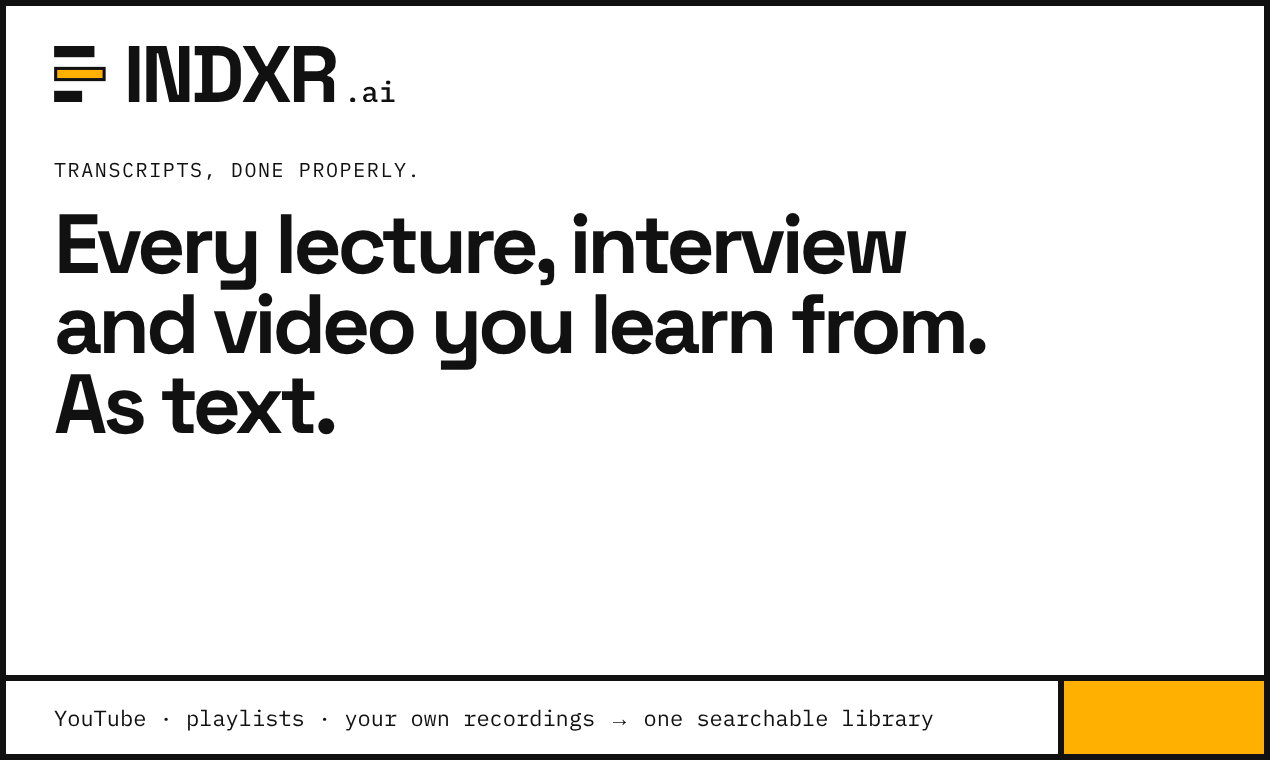
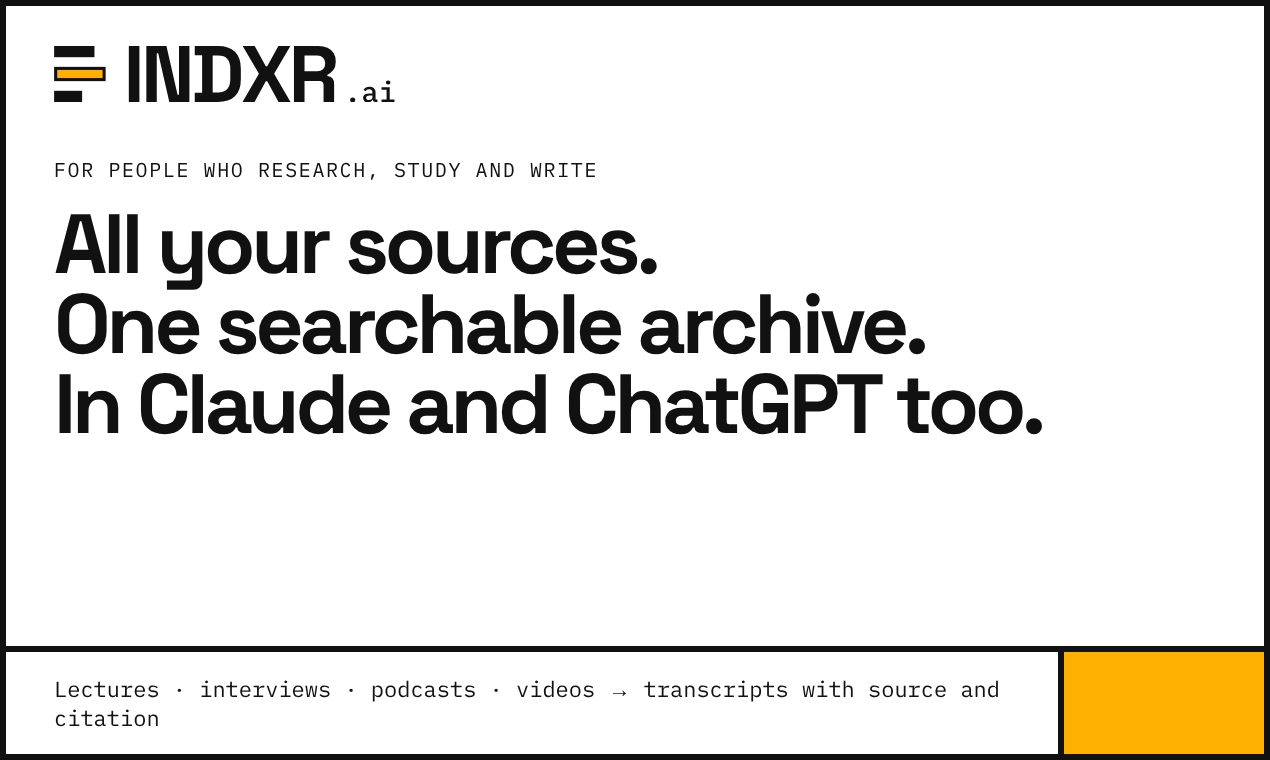
docs: launch prep — PH gallery, directory submission, accounts kit, backups decision
Claude-Session: https://claude.ai/code/session_01KYLCeno4fqXJ6K37Rd74Fw

Changed region(s): [[0.0307, 0.2724, 0.8291, 0.575], [0.0, 0.8474, 1.0, 0.9684], [0.0307, 0.2118, 0.4606, 0.2421]]

diff --git a/docs/marketing/claude-directory/submission.md b/docs/marketing/claude-directory/submission.md
@@ -1,0 +1,79 @@
+# Claude Connectors Directory: inzending INDXR (voorbereid 9-11-2026)
+
+Bron van de eisen: https://claude.com/docs/connectors/building/submission (gelezen 9-11). Indienen via
+**claude.ai/directory/manage → Submit new → MCP connector**, met een betaald Claude-account. De voortgang
+wordt in de browser bewaard. Escalaties: mcp-review@anthropic.com. Na indienen volgt een automatische scan;
+standaard komt de connector als **Community**-listing in de directory. Soms beoordeelt ook een mens hem.
+
+## Voorwaarden (status)
+| Eis | Status |
+|---|---|
+| Remote HTTPS-server | ✅ `https://app.indxr.ai/api/mcp` |
+| OAuth 2.0 (DCR, PKCE S256, 401 + WWW-Authenticate, resource-metadata) | ✅ ADR-108, gate 15/15 |
+| Callback `https://claude.ai/api/mcp/auth_callback` en loopback voor Claude Code | ✅ allowlist claude.ai/claude.com/loopback |
+| Elke tool heeft `title` + `readOnlyHint` | ✅ 5 tools, alle read-only |
+| Getest als custom connector in Claude | ✅ Khidr (8-11) en Claude (9-11, HIST 202-demo) |
+| Documentatie-URL | ✅ https://indxr.ai/docs/guides/ai-assistants |
+| Privacybeleid met een sectie over de AI-koppeling | ⏳ CC-prompt 9-11 punt 7 |
+| Ontkoppelen in de app ("Connected apps") | ⏳ CC-prompt 9-11 punt 6. Geen harde eis, wel sterk aangeraden |
+| Gevuld reviewer-account | ⏳ CC-prompt 9-11 punt 8. Khidr zet de inloggegevens |
+| Icoon | ✅ het INDXR-merkteken (apps/marketing/public/, vierkant, ≥512 px) |
+
+## Wat je in het portal invult
+
+**1. Connection:** `https://app.indxr.ai/api/mcp` (één URL voor iedereen).
+
+**3. Listing**
+- **Server name:** INDXR
+- **One-liner (≤200):** Search and quote your own library of lecture, interview and video transcripts, each with its source, timestamps and an APA citation.
+- **Description (≤2000):**
+
+> INDXR keeps the lectures, interviews, podcasts and videos you learn from as clean transcripts, each with its source: channel, link, publication date and a ready APA 7 citation. Connect your library and Claude can use those sources next to everything it already knows and can look up.
+>
+> Claude can list your collections (a course, a research project, a series of interviews), search titles and the transcript text itself, read a transcript in time blocks with timestamps and speaker names, look up the full source with its citation, and read summaries you already made. Every quote comes with the minute it was said and a link to that moment in the video, so you can check it.
+>
+> Good for students working through a lecture series, researchers with hours of interviews, and journalists and non-fiction writers who need quotes they can verify. Ask Claude to compare what two lecturers say, draft study notes with a reference per section, or find every mention of a name across a project. Use your sources alongside Claude's own knowledge and web search, or ask it to answer from your sources only.
+>
+> The connector is read-only: it never adds, changes or deletes anything, never spends credits, and only sees your own library. Connecting is free on every INDXR account. You add sources in INDXR itself: YouTube videos and playlists (captions are free) or your own recordings (AI transcription, pay per minute, no subscription).
+
+- **Categories (1–5):** Education · Research · Productivity · Writing (kies wat het portal aanbiedt; Knowledge management als dat bestaat)
+- **Documentation URL:** https://indxr.ai/docs/guides/ai-assistants
+- **Privacy policy URL:** https://indxr.ai/privacy (pas indienen na punt 7)
+- **Support contact:** support@indxr.ai
+- **Icon:** `docs/marketing/claude-directory/icon-512.png`
+- **Slug (permanent):** `indxr`
+
+**4. Use cases**
+- Primair: (1) een college- of cursusreeks bestuderen en er notities en citaten uit halen; (2) quotes in interviews en podcasts terugvinden en controleren voor artikelen en boeken; (3) zoeken en vergelijken binnen een eigen onderzoeksverzameling.
+- Wat gebruikers vooraf nodig hebben: een gratis INDXR-account (indxr.ai/signup) met een paar transcripten. Captions zijn gratis; een nieuw account krijgt 10 credits voor AI-transcriptie.
+- Leest/schrijft: **alleen lezen**.
+
+**5. Company:** Tiny Web Ventures · https://indxr.ai · primair contact: contact@indxr.ai
+
+**6. Authentication:** Required · OAuth (dynamic client registration). Geen door Anthropic beheerde client nodig.
+
+**7. Data handling:** Eigen API (eigen dienst). Geen persoonlijke gezondheidsgegevens. Geen gesponsorde content.
+
+**8. Test & launch** (tekst voor reviewers; inloggegevens vul jij in het portal in, nergens anders)
+> 1. Add the connector at https://app.indxr.ai/api/mcp (or pick it from the directory) and click Connect.
+> 2. On the INDXR sign-in page, sign in with the reviewer email and password provided in this form.
+> 3. Click Allow on the consent screen ("read your library; nothing changed or deleted").
+> 4. The account holds two collections with full transcripts: "PHIL 176 · Death (Kagan)" (Yale lectures) and "HIST 202 · European Civilization 1648–1945".
+> 5. Example prompts, one per tool:
+>    - "List my INDXR collections." → list_collections
+>    - "Search my library for 'soul'." → search_library
+>    - "Read the first 15 minutes of lecture 2 in my Death collection." → get_transcript
+>    - "Give me the APA citation for that lecture." → get_source
+>    - "Is there a summary of lecture 1?" → get_summary (returns a note when none exists)
+> All tools are read-only; no reset is needed. Rate limit: 60 requests per minute per account.
+
+En vink aan: alle tools zelf getest (gedaan, als custom connector in Claude).
+
+**9. Compliance:** zeven verklaringen. Alle zeven gelden voor ons: geen financiële transacties, geen AI-media, geen verzameling van gespreksdata, publieke documentatie aanwezig.
+
+## Checklist voor Khidr (in deze volgorde)
+1. Laat Claude Code de prompt `docs/wiki/roadmap/cc-prompt-2026-11-09-library-quality.md` afmaken (privacybeleid + Connected apps + reviewer-account).
+2. Zet het wachtwoord van het reviewer-account zelf (Supabase → Auth → user → Reset of via de admin) en bewaar het in Proton Pass.
+3. Open claude.ai/directory/manage → Submit new → MCP connector, en plak de velden hierboven.
+4. Vul bij stap 8 het e-mailadres en wachtwoord van de reviewer in.
+5. Dien in. Laat mij daarna weten dat het ingediend is, dan volg ik de status op (portal + mail).

diff --git a/docs/marketing/social/accounts-kit.md b/docs/marketing/social/accounts-kit.md
@@ -1,0 +1,49 @@
+# Accounts-kit INDXR (voorbereid 9-11-2026, Claude-piloot)
+
+**Regel:** Khidr maakt de accounts aan en logt in. Claude maakt geen accounts en vult geen wachtwoorden in.
+Claude zet alles klaar wat erop hoort, zoals beelden, teksten en eerste posts, en vult het profiel in zodra
+het account bestaat en in het Chrome-profiel "INDXR.ai" is ingelogd. **Plaats niets in communities voordat de
+CC-prompt van 9-11 klaar en getest is** (Connected apps, privacy, zoekvolgorde).
+
+Gebruik voor elk account `contact@indxr.ai` (Fastmail), zet 2FA aan en bewaar de inloggegevens in Proton Pass.
+Je privéadres nooit invullen. Als adres alleen "Netherlands" waar het verplicht is.
+
+## Volgorde en status
+| # | Platform | Waarom | Account | Wat Claude daarna doet |
+|---|---|---|---|---|
+| 1 | **Hacker News** | Show HN met de Claude-koppeling als haak, het publiek dat MCP begrijpt | ⬜ maken (gebruikersnaam `sinbadbuilds`, dezelfde als op PH) | Post staat klaar in `community/show-hn.md`. Jij plaatst hem, ik help met de reacties |
+| 2 | **Reddit** | r/ObsidianMD, daarna r/Rag | ⬜ maken (`sinbadbuilds`). **Eerst 1–2 weken gewoon reageren in die subs**, anders word je als spam gemarkeerd | Teksten in `community/reddit-*.md` |
+| 3 | **X** | Bouwen in het openbaar, launchdag, de MCP-community zit op X | ⬜ maken: `@indxr_ai` (of `@indxrai`), naam "INDXR" | Profiel invullen + 5 klaarstaande posts (hieronder) |
+| 4 | **YouTube** | Demovideo's: PH-video, "Ask Claude about a Yale course" | ⬜ maken: kanaal "INDXR", handle `@indxr` | Banner en avatar uploaden, kanaaltekst, de 60-s-demo maken |
+| 5 | **Trustpilot** | Pas zinvol met echte klanten | **Nog niet.** Een leeg profiel, of een profiel met reviews die je zelf hebt geregeld, werkt tegen je; Trustpilot verbiedt reviews uit je eigen kring | Na de eerste 10 betalende klanten: claimen (gratis) en uitnodigingen sturen via de bestel-mail |
+| — | AlternativeTo | Staat er al | ✅ | Tekst en screenshots bijwerken (Claude, 9-11) |
+| — | Product Hunt | Draft | ✅ | Galerij + tekst bijgewerkt (Claude, 9-11). Inplannen = jouw besluit, na de directory |
+
+## Beelden (klaar, in `docs/marketing/brand/`)
+- `avatar-800.png`: profielfoto voor X, YouTube, Reddit en HN (geen avatar)
+- `x-header-1500x500.png`: X-header
+- `youtube-banner-2560x1440.png`: YouTube-banner (de veilige zone is gecontroleerd)
+- Galerij en press: `https://indxr.ai/press/indxr-gallery-01.jpg` t/m `-07.jpg`
+
+## Profielteksten
+**X: bio (≤160):** `Your lectures, interviews and videos as transcripts with source and citation. Search them, or use them in Claude and ChatGPT. Made in NL by @sinbadbuilds.`
+Link: `https://indxr.ai/?utm_source=x` · Locatie: Netherlands
+
+**YouTube: kanaalbeschrijving:**
+> INDXR turns lectures, interviews, podcasts and videos into transcripts you keep, each with its source and an APA citation. Search them word for word, or connect your library to Claude and ChatGPT and work with your own sources next to everything the assistant knows. Short demos and how-tos here. https://indxr.ai
+
+**Reddit/HN "about":** `Solo dev, building INDXR (indxr.ai): transcripts of what you learn from, searchable and usable in Claude/ChatGPT.`
+
+## Eerste 5 posts voor X (na de lancering van de koppeling)
+1. `I connected 110 Yale lectures to Claude. Asked why WW1 broke out. It quoted the lecturer with timestamps, added what it knew itself, kept the two apart, and flagged two factual slips in the lecture. [gallery-03.jpg]`
+2. `Claude and ChatGPT know a lot. They don't know the interview you recorded last week. INDXR gives them your sources, organised and cited, next to everything else. Free connector, read-only. indxr.ai/connect`
+3. `How it works: paste a YouTube playlist, captions are free. Get a collection of transcripts, each with channel, date and an APA reference. Add the connector to Claude once. Ask across the whole course. [gallery-04.jpg]`
+4. `Building in public, honest numbers: €540 on Google Ads, 0 purchases. Lesson: people searching "free YouTube transcript" don't buy. People who collect sources do. So that's who INDXR is for now.`
+5. `Small thing I care about: every quote comes with the minute it was said. Click it and the video starts there. If an AI quotes your source, you should be able to check it in one click.`
+
+## Wat jij nu doet (±30 min)
+1. HN-account `sinbadbuilds` (news.ycombinator.com/login → create account).
+2. Reddit-account `sinbadbuilds`. Begin met gewoon meedoen in r/ObsidianMD en r/Rag.
+3. X-account `@indxr_ai` met contact@indxr.ai, en log in in het Chrome-profiel "INDXR.ai".
+4. YouTube: kanaal "INDXR" op het Google-account contact@indxr.ai, handle `@indxr`.
+5. Zeg het me zodra 3 en 4 bestaan, dan vul ik profiel, header en eerste post in. Plaatsen pas na jouw ja.

diff --git a/docs/wiki/business/growth-live-status.md b/docs/wiki/business/growth-live-status.md
@@ -17,6 +17,7 @@ Laatst bijgewerkt: 2026-11-06 11:00.
 - **Directories + PH (werkblok 6-11):** keuze en klare inzendteksten in `docs/marketing/directories/`: SaaSHub (gratis), Uneed (gratis wachtrij ≥50 dagen; fast-track $14,99 is de vraag aan Khidr), Peerlist (gratis), There's An AI For That ($49 is de vraag aan Khidr), Toolify (alleen als er een gratis wachtrij bestaat). Overgeslagen: Futurepedia ($497), Microlaunch ($39+), BetaList (bedoeld voor pre-launch). Accounts maakt Khidr aan. PH-draft: tagline en beschrijving aangepast aan de positionering van 4-11 (de oude tekst staat in `docs/marketing/producthunt/README.md`). Galerij van 5 kaarten in stijl B gebouwd (`docs/marketing/producthunt/gallery/`), nog niet geüpload. Video gepland na de redesign. Niets ingepland of gepubliceerd.
 - **Positionering (besluit Khidr 4-11, vervangt framing 3-11):** "Every lecture, interview and video you learn from — as text you can search, quote and use." Bronnen samenbrengen: (1) YouTube-video's en playlists (géén kanaalfunctie), captions gratis; (2) eigen opnames (colleges, interviews, podcasts). Zelfde formaat, één bibliotheek, export naar notities/ondertitels/AI. Bewijslijn: "Transcripts, done properly." Upsell: ook video's MET captions laten transcriberen met AI (sprekers, leestekens, alinea's) — het kwaliteitsverschil is het verkoopargument. Credits = normale aankoop; eerlijk: goedkoper dan een abonnement van ~€10/mnd onder ~8 uur/maand; heavy uploaders (tientallen uren/maand) jagen we niet na. Balie = kleine zijdeur ("Just one file?").
 - **Positionering-aanscherping (Khidr 9-11):** INDXR = Claude/ChatGPT gebruiken met je eigen bronnen ERBIJ: de assistent houdt zijn kennis + web, en krijgt jouw geordende, geciteerde bronnen; "alleen mijn bronnen" kan per vraag (niet "in plaats van het internet"). Voor wie onderzoekt, studeert en schrijft: studenten, onderzoekers, journalisten, non-fictieschrijvers. De MCP-koppeling (ADR-108, gratis, read-only) is de haak; archief + citaat blijft de basis. Copy-rewrite live 9-11: home (eyebrow "For people who research, study and write", §02 "Claude and ChatGPT, working from your sources", kaart WRITING), gids /docs/guides/ai-assistants (+ /connect), pricing/about/signup/FAQ/quickstart, PH/directories/Show HN-teksten. ChatGPT-koppeling NIET end-to-end getest (geen betaald account); copy noemt "paid plans, developer mode". Audioboeken bewust niet in publieke copy (auteursrecht).
+- **Launch-voorbereiding 9-11 (Claude):** PH-draft bijgewerkt (beschrijving, 7 kaarten met echt Claude-antwoord, maker-comment over koppeling); Claude-directory-inzending klaar in `docs/marketing/claude-directory/submission.md` (wacht op CC-prompt: privacy + Connected apps + reviewer-account); accounts-kit in `docs/marketing/social/accounts-kit.md` (HN, Reddit, X, YouTube door Khidr aan te maken; Trustpilot pas na 10 betalende klanten); AlternativeTo: inloggen moet Khidr (account met wachtwoord). Besluit 9-11: DB-backups pas bij €1–2K omzet.
 - **Klant:** verzamelaars — studenten/onderzoekers/kennisbank-bouwers, podcast-/videomakers, RAG-bouwers. Balie = zij-ingang voor één los bestand, niet het verhaal.
 - **Productgaten t.o.v. de positionering (4-11, geverifieerd in code):** (a) ~~bibliotheekzoeken doorzoekt alleen titel/kanaal/video_id~~ — **opgelost 5-11**: full-text zoeken in transcripttekst live en in productie geverifieerd (roadmap/product-gaps-2026-11-04.md); "search your transcripts" mag nu in copy; (b) de upsell captions → AI-transcript is nergens zichtbaar op het moment dat iemand een captions-transcript bekijkt. Beide bouwen vóór/met de redesign.
 - **Kanalen:** GEEN betaald verkeer (alle Ads-campagnes gepauzeerd 3-11). Communities (Claude schrijft, Khidr plaatst), directories, Product Hunt (na redesign), SEO.

diff --git a/docs/marketing/producthunt/README.md b/docs/marketing/producthunt/README.md
@@ -2,7 +2,7 @@
 
 **Status:** draft, er staat niets ingepland of gepubliceerd. PH toont nu "Schedule launch" omdat alle verplichte velden gevuld zijn. **Inplannen alleen na akkoord van Khidr.**
 
-## Copy 9-11 (copy-rewrite: Claude/ChatGPT-koppeling erbij — LEIDEND, nog niet in de PH-draft gezet)
+## Copy 9-11 (Claude/ChatGPT-koppeling) — IN DE DRAFT GEZET 9-11 (beschrijving, 7 galerijkaarten, maker-comment-alinea over de koppeling)
 - **Tagline:** "All your sources. One searchable archive." (ongewijzigd)
 - **Description (467/500):** "INDXR turns lectures, podcasts, YouTube videos and your own recordings into clean transcripts (speakers, punctuation, timestamps), kept with their source in one archive you can search word for word. / Connect it to Claude or ChatGPT and your sources sit next to everything the assistant knows and can look up, quoted with the minute they were said. Read-only, free. / YouTube captions are free. AI transcription is pay-per-minute: credits never expire, no subscription."
 - **Eerste maker-comment, alinea 2:** de koppeling als haak: "You can also connect your library to Claude or ChatGPT (MCP, read-only) and ask questions across your own sources, with answers that cite the transcript and the timestamp." Link: indxr.ai/connect.
@@ -22,7 +22,11 @@
 - **First comment:** niet aangeraakt. Het is Khidrs eigen stem en past bij de positionering (Obsidian-workflow, bibliotheek, "for anyone learning anything"). De feiten erin kloppen: 10 credits, captions gratis, credits verlopen niet.
 - **Pricing-veld:** "Free Options". Laten staan of "Freemium" kiezen.
 
-## Galerij (1270×760, stijl B): `gallery/01–05.png`
+## Galerij 9-11 (1270×760, in de draft): `gallery/01–07.png`, ook online als `https://indxr.ai/press/indxr-gallery-0N.jpg`
+1. Titelkaart "All your sources. One searchable archive. In Claude and ChatGPT too." 2. Echt Claude-antwoord via de INDXR-koppeling (HIST 202, WO I, quotes met tijdstempels). 3. Hetzelfde antwoord: "From my own knowledge" + "Two slips in the lecture" (geverifieerd: Merriman zegt "sixteen-year-old" Princip rond 10:30; Princip was 19). 4. Echte bibliotheek (110 transcripten, 6 collecties). 5. Echt transcript met bron (YaleCourses) + Cite. 6. Captions vs. INDXR (JFK). 7. Prijs.
+Nog open: video (YouTube-link; wacht op het kanaal, zie `social/accounts-kit.md`).
+
+## Galerij 7-11 (vervangen)
 1. Titelkaart met logo, "All your sources. One searchable archive." en "Transcripts, done properly."
 2. Captions tegenover INDXR (JFK, Rice 1962, publiek domein).
 3. De bibliotheek met zoeken in titels en transcripttekst. **Mockup in stijl B met verzonnen titels.** Na de redesign vervangen door een echte screenshot.

diff --git a/docs/LOG.md b/docs/LOG.md
@@ -1298,3 +1298,4 @@ Co-Authored-By: Claude Sonnet 5 <noreply@anthropic.com>
 [2026-11-09 17:30] taak: docs + artikelen herzien op positionering 'eigen bronnen in Claude/ChatGPT' (audit): AskYourLibrary-blok op 12 docs-pagina's + JSON-docs (belangrijkste ChatGPT-landing), gids met 'Before you connect'+signup, limits (MCP i.p.v. 'no API', verouderde 'not enforced'-notitie weg), FAQ-volgorde, constants i.p.v. getallen, kapotte /dashboard/account-links, APA-voorbeeld = echte output + eerlijke noot. Artikelen: 3 nieuw (claude-chatgpt-own-sources, transcribe-interviews-journalism, cite-youtube-video-apa), 3 samengevoegd met 308 (video-to-text→audio-to-text, youtube-video-summarizer→youtube-to-notes, supported-formats→docs/guides/uploads), KB-artikel herschreven (no-code eerst, '500 video's'-fout), categorie 'Research with your sources', Otter-vergelijking. Build groen, 390 px geen pagina-overflow (13 pagina's), redirects getest. | gewijzigd: apps/marketing/** (45 files), docs/wiki/roadmap/priorities.md
 [2026-11-09 18:00] taak: showcasebibliotheek uitgebreid (CLCV 205 24, HIST 202 24, Jung-interview AI; zoo/Qadhi/Schnoebelen weg; 110 transcripten in 6 collecties, channel handmatig gevuld) + 4 URL's ter indexering aangeboden in Search Console; productfouten gevonden → CC-prompt docs/wiki/roadmap/cc-prompt-2026-11-09-library-quality.md | gewijzigd: docs/wiki/roadmap/cc-prompt-2026-11-09-library-quality.md
 [2026-11-09 18:40] taak: framing gecorrigeerd (Khidr): eigen bronnen NAAST kennis/web van Claude/ChatGPT, exclusief als optie — hero, §02 (kop 'with your sources on hand'), bullet, AskYourLibrary, gids-lead, Claude-artikel (intro + 2 secties + meta), journalistiek-artikel, artikelindex, PH-tekst; LESSONS-regel. Build groen. | gewijzigd: apps/marketing/** (7 files), docs/marketing/producthunt/README.md, docs/LESSONS.md, growth-live-status.md
+[2026-11-09 20:10] taak: launch-voorbereiding — PH-draft (beschrijving, 7 nieuwe galerijkaarten incl. echt Claude-antwoord via connector, maker-comment-alinea), /press-galerij (CORS), Claude-directory-inzending + checklist, accounts-kit (HN/Reddit/X/YouTube/Trustpilot), DB-backups-besluit in CLAUDE.md + CC-prompt | gewijzigd: docs/marketing/{producthunt,claude-directory,social}/**, CLAUDE.md, cc-prompt, growth-live-status.md

diff --git a/CLAUDE.md b/CLAUDE.md
@@ -318,7 +318,7 @@ Als ze verschijnen: `git rm -r --cached <path>`
 ### Supabase
 - **Email verificatie staat AAN** (`mailer_autoconfirm=false`, geverifieerd 2026-07-15 via Management API). Nieuwe email/password-signups zijn PKCE en moeten de verificatielink klikken → `/auth/callback?code=…` → sessie. LET OP: custom SMTP (Resend, `smtp.resend.com`, sender `no-reply@send.indxr.ai`) is gekoppeld met auth-rate-limit 30/u (geverifieerd 2026-07-20) — niet meer de ingebouwde 2/u mailer. **Nieuwe signups met `@indxr-test.com` worden door Supabase geweigerd** ("Email address invalid"); gebruik `@indxr.ai` (of een echt domein met MX) voor E2E-signup-tests, of maak accounts admin-side aan (`admin.createUser` met `email_confirm:true` accepteert `@indxr-test.com`).
 - RLS staat aan op alle 30 public tabellen (geverifieerd 2026-09-01; was eerder 25 op 2026-07-24 — `summary_cost_baseline_log` was per abuis zonder RLS aangemaakt, gedicht in migratie `20260901210140`)
-- Database backups nog niet geconfigureerd — **open voor launch**
+- Database backups nog niet geconfigureerd — **bewust uitgesteld** (besluit Khidr 2026-11-09: pas bij €1–2K omzet, als de verliezen terug zijn; nu geen vaste gebruikers)
 
 ### Railway
 - Bij Railway restart mid-job: background task sterft — job blijft hangen in `running` state, **geen auto-recovery**

diff --git a/docs/wiki/roadmap/cc-prompt-2026-11-09-library-quality.md b/docs/wiki/roadmap/cc-prompt-2026-11-09-library-quality.md
@@ -69,9 +69,9 @@ op claude.com/support.claude.com, niet uit je geheugen)
    `supported-formats` en `youtube-video-summarizer`. Haal ze weg als niets ze meer gebruikt.
 10. CLAUDE.md: corrigeer de rij "Rate limiting … uit in prod" (Upstash staat aan, LOG 2026-11-09 03:00) en
     de sectie "Geen Sentry / uptime monitoring" (Sentry draait voor de backend; check of er
-    uptime-monitoring is en schrijf op wat waar is). Laat "Database backups … open voor launch" staan,
-    maar zoek uit wat er nu werkelijk is: het Supabase-plan en of PITR of dagelijkse backups aan staan
-    (Management API). Rapporteer wat het kost om het aan te zetten. Zet zelf niets betaalds aan.
+    uptime-monitoring is en schrijf op wat waar is). Database-backups: besluit Khidr 9-11. Betaalde backups pas als de omzet
+    €1–2K is (de verliezen terugverdiend). Zet dat zo in CLAUDE.md en priorities.md. Zet niets aan en
+    onderzoek de kosten niet verder.
 
 Docs: LOG.md onderaan, `docs/wiki/roadmap/priorities.md` (sectie "Gevonden 9-11" afvinken), ADR-108
 aanvullen voor Connected apps, LESSONS.md als een fout een patroon is. Commit en push zelf, per blok (A, B,
